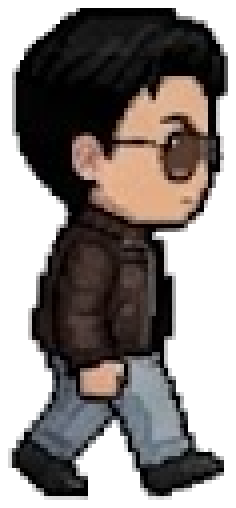
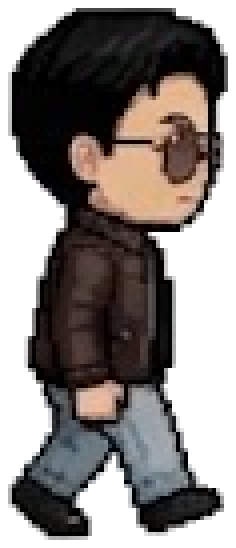
Fix the default walk cycle: face forward, keep one size, move the legs
Frames 2 and 4 of the default Man-Walk set faced backwards, frames 3-4
had a shorter canvas (so he pulsed in size) and all four had the same
stride. Rebuilt the set from frame 1 as stride / passing / stride /
passing, and draw every walk frame at one scale so mismatched canvases
from future sprite sets can't make him pulse again.

diff --git a/js/engine.js b/js/engine.js
@@ -957,10 +957,13 @@ export class JourneyGame {
     const solo = this.phase === "solo" || this.phase === "meeting";
     const blink = this.invuln > 0 && Math.floor(this.t * 12) % 2 === 0;
     let sprite = img.playerSolo;
+    let walkH; // các khung đi bộ vẽ cùng một tỉ lệ (khung cao nhất = cao nhân vật) để không phập phồng
     if (this.phase === "walk") {
       const frames = img.walkFrames || [];
       const moving = Math.abs(this.player.vx) > 1 && !this.paused && this.player.onGround;
       sprite = frames[moving ? Math.floor(this.player.animT * 7) % frames.length : 0] || frames[0];
+      const maxH = Math.max(...frames.filter(ready).map((f) => f.height));
+      if (ready(sprite) && maxH > 0) walkH = this.player.h * (sprite.height / maxH);
     } else if (!solo) {
       const frames = img.coupleFrames || [];
       const moving = Math.abs(this.player.vx) > 1 && !this.paused;
@@ -972,7 +975,7 @@ export class JourneyGame {
     if (riding) drawSpeedLines(ctx, this.player, this.groundY, this.t);
     // rung máy 1px khi đang chạy
     const rumble = riding ? Math.floor(this.player.animT * 28) % 2 : 0;
-    drawPlayer(ctx, this.player, sprite, 0, blink, this.groundY, bikeScene ? 100 : undefined, bikeScene ? 2 - rumble : 0);
+    drawPlayer(ctx, this.player, sprite, 0, blink, this.groundY, bikeScene ? 100 : walkH, bikeScene ? 2 - rumble : 0);
 
     for (const pt of this.particles) {
       ctx.globalAlpha = Math.max(0, Math.min(1, pt.life / 0.3));
